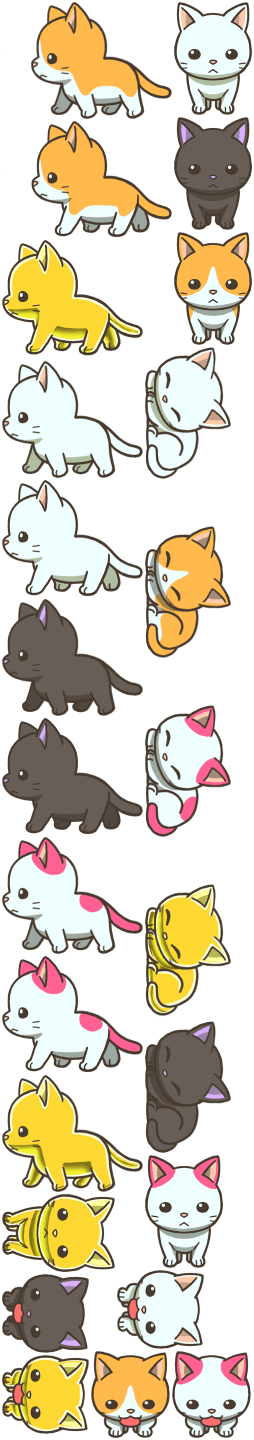
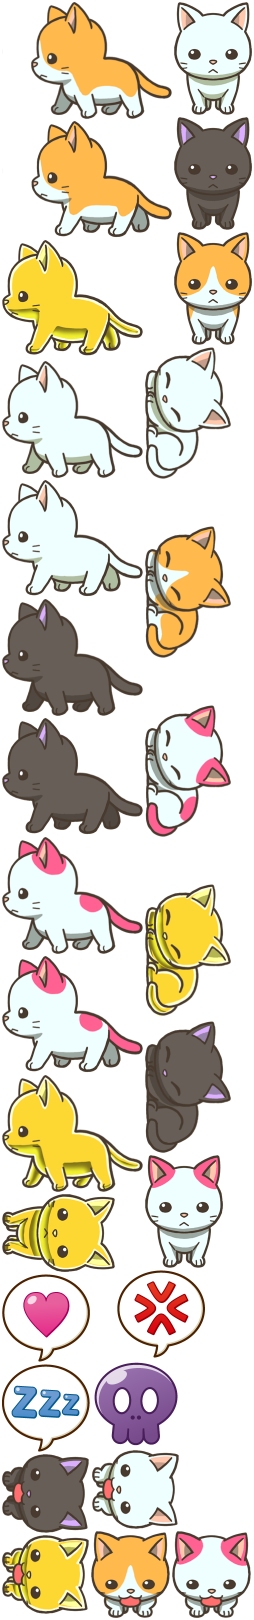
加入打呼动画

diff --git a/project/client/src/widget/CatSprite.js b/project/client/src/widget/CatSprite.js
@@ -5,15 +5,17 @@
 */
 
 var CatSprite = cc.Sprite.extend({
-    // isProfile 是指侧面
-    ctor:function (id, isProfile) {
+    // cat是指在CatManager中被管理cat对象
+    ctor:function (id, cat) {
         this._setting = CatSetting.getById(id);
+        this._model = cat
 
-        if (isProfile) {
-            this._super("#" + this.getImageName("move", 0));
-        } else {
-            this._super("#" + this.getImageName("eat", 0));
-        }
+        this._super("#" + this.getImageName("eat", 0));
+    },
+
+    // 显示侧面
+    showProfile:function() {
+        this.setSpriteFrame(cc.spriteFrameCache.getSpriteFrame(this.getImageName("move", 0)));
     },
 
     // 走路动画
@@ -29,6 +31,15 @@ var CatSprite = cc.Sprite.extend({
     // 睡觉
     playSleep:function() {
         this.play("sleep", 1);
+
+        // 呼噜动画
+        var sprite = new cc.Sprite("#icon_sleep.png")
+        sprite.setPosition(cc.p(this.width - 20, this.height + 30))
+        sprite.setScale(0.8)
+        this.addChild(sprite)
+
+        var animate = new cc.MoveBy(2, 10, 10)
+        sprite.runAction(cc.repeatForever(cc.sequence(animate, animate.reverse())))
     },
 
     // 播放动画
@@ -49,12 +60,16 @@ var CatSprite = cc.Sprite.extend({
 
     getPrefix:function() {
         var name = null;
-        if (this._setting.id > CatSetting.getAllBaby.length) {
-            name = "cat";
-        } else {
+        var id = this._setting.id
+        if (CatSetting.isBaby(this._setting.id)) {
             name = "baby";
+        } else {
+            name = "cat";
+
+            // 成猫的图也是从1开始的，所以需要处理下
+            id -= CatSetting.getAllBaby().length
         }
-        return name + this._setting.id.toString();
+        return name + id.toString();
     },
 
 

diff --git a/project/client/src/Model/Cat.js b/project/client/src/Model/Cat.js
@@ -5,9 +5,6 @@
 * @date:   2015-06-24
 */
 
-// 猫的配置表，拿到就是两张，为了方便起见，直接把成年猫的id改成从6开始
-var AdultCatStartId = 6
-
 // 猫的配置类
 var CatSetting = CatSetting || {}
 
@@ -63,7 +60,7 @@ CatSetting.getAllAdult = function() {
 // 根据猫的id，获取成猫数据
 CatSetting.getAdultById = function(id) {
     if (id > 0 && this.adult) {
-        return this.adult.jsonData[id - 1]
+        return this.adult.jsonData[id - CatSetting.getAllBaby().length - 1]
     }
 }
 
@@ -79,11 +76,15 @@ CatSetting.getBabyById = function (id) {
     }
 }
 
+CatSetting.isBaby = function(id) {
+    return id <= this.baby.jsonData.length
+};
+
 // 根据id的大小，判断是否是成年猫
 CatSetting.getById = function(id) {
     if (typeof(id) == 'string') id = parseInt(id)
 
-    if (id < AdultCatStartId) {
+    if (CatSetting.isBaby(id)) {
         return CatSetting.getBabyById(id)
     } else {
         return CatSetting.getAdultById(id)

diff --git a/project/client/src/test/widget/TestCatSpriteScene.js b/project/client/src/test/widget/TestCatSpriteScene.js
@@ -8,6 +8,7 @@ var TestCatSpriteScene = TestBaseScene.extend({
     ctor:function () {
         this._super();
 
+        cc.spriteFrameCache.addSpriteFrames(gameResource.global.cat_baby_plist, gameResource.global.cat_baby_image);
         cc.spriteFrameCache.addSpriteFrames(gameResource.global.cat_plist, gameResource.global.cat_image);
 
         var p = cc.p(220, 350);
@@ -19,6 +20,7 @@ var TestCatSpriteScene = TestBaseScene.extend({
 
         // 侧面
         cat = new CatSprite(1, true);
+        cat.showProfile()
         p.x += 100;
         cat.setPosition(p);
         cat.setScale(0.5);
@@ -41,7 +43,7 @@ var TestCatSpriteScene = TestBaseScene.extend({
         cat.playEat();
 
         // 睡觉
-        cat = new CatSprite(7, true);
+        cat = new CatSprite(25, true);
         p.x += 100;
         cat.setPosition(p);
         cat.setScale(0.5);

diff --git a/project/client/src/widget/HandbookItem.js b/project/client/src/widget/HandbookItem.js
@@ -30,7 +30,8 @@ var HandbookItem = GameBaseLayer.extend({
             var catSetting = CatSetting.getById(catId);
             name.setString(catSetting.name);
 
-            var cat = new CatSprite(catId, true);
+            var cat = new CatSprite(catId);
+            cat.showProfile()
             cat.setPosition(cc.p(bg.width / 2, bg.height / 2));
             this.addChild(cat);
 

diff --git a/project/client/src/test/TestMainScene.js b/project/client/src/test/TestMainScene.js
@@ -74,7 +74,7 @@ var TestMainScene = TestBaseScene.extend({
             Util.setDebugDesignResolution();
             cc.director.popScene();
         })
-        scene.addChild(button);
+        scene.addChild(button, 9);
         cc.director.pushScene(scene);
     },
 
